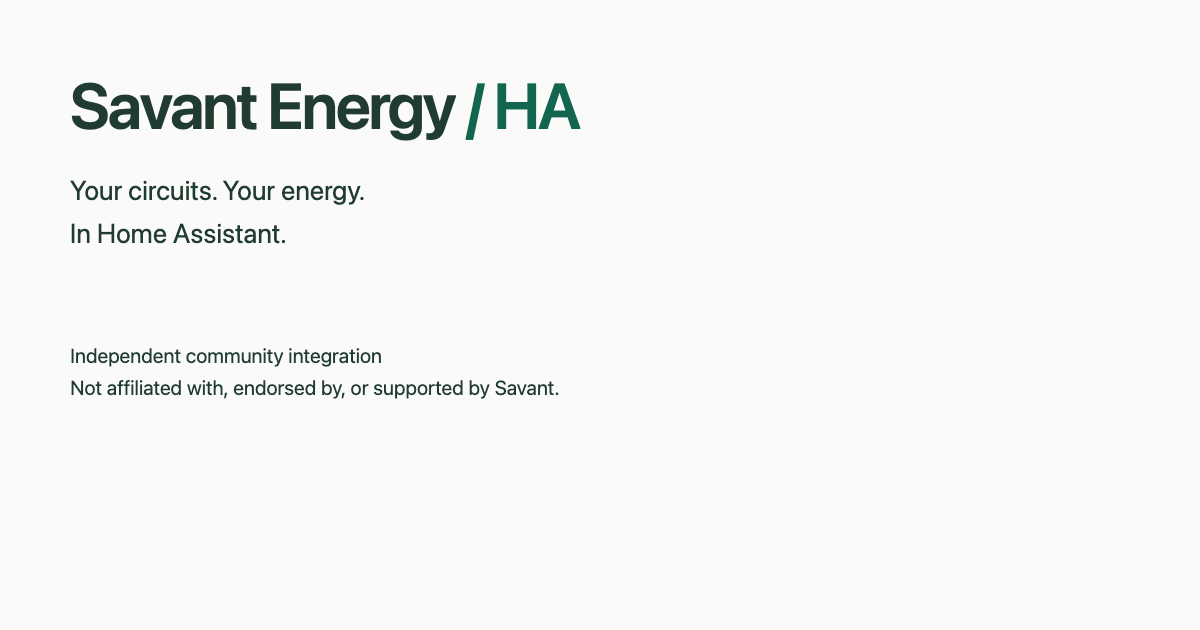
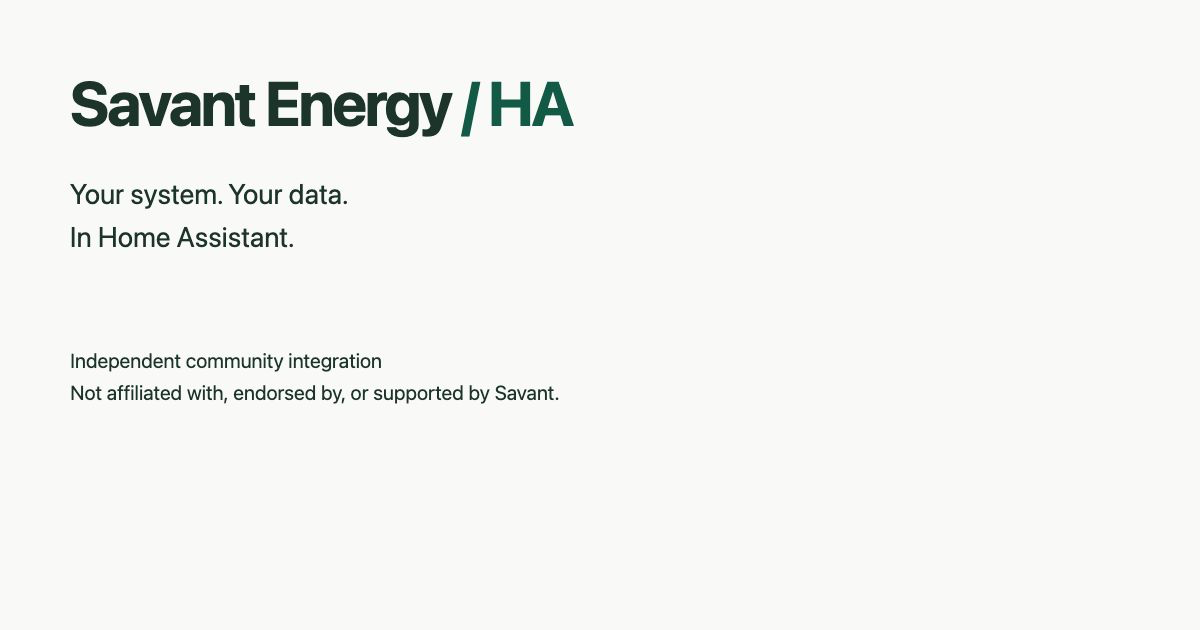
docs: use Your system, Your data headline

diff --git a/website/src/pages/index.tsx b/website/src/pages/index.tsx
@@ -4,11 +4,11 @@ import Link from '@docusaurus/Link';
 import overview from '@site/../docs/assets/breaker-board-desktop.jpg';
 
 export default function Home(): React.JSX.Element {
-  return <Layout title="Your energy, in Home Assistant" description="Independent community integration for Savant energy systems. Installation, setup, energy monitoring, scenes, and Legacy guides.">
+  return <Layout title="Your system. Your data." description="Independent community integration for Savant energy systems. Installation, setup, energy monitoring, scenes, and Legacy guides.">
     <main>
       <section className="showcase container">
         <div className="showcase-copy">
-          <h1>Your circuits. Your energy.<br /><span>In Home Assistant.</span></h1>
+          <h1>Your system. Your data.<br /><span>In Home Assistant.</span></h1>
           <p>Bring your Savant energy system into the home you already manage. See supported circuit readings, monitor energy, and run relay scenes from Home Assistant.</p>
           <div className="showcase-actions">
             <Link className="button button--primary button--lg" to="/docs/get-started/installation">Install the integration</Link>

diff --git a/website/branding/social-card.html b/website/branding/social-card.html
@@ -1,0 +1,15 @@
+<!doctype html>
+<!-- Render at 1200 × 630 and export as static/img/social-card.png. -->
+<html lang="en"><meta charset="utf-8"><title>Savant Energy social card</title>
+<style>
+* { box-sizing: border-box; }
+body { margin: 0; width: 1200px; height: 630px; background: #fafbf9; color: #203b31; font-family: -apple-system, BlinkMacSystemFont, 'Segoe UI', sans-serif; padding: 64px 70px; }
+h1 { margin: 0 0 30px; font-size: 62px; letter-spacing: -2.2px; font-weight: 700; line-height: 1.25; }
+h1 span { color: #12654f; }
+p { margin: 0; font-size: 28px; line-height: 1.55; }
+footer { margin-top: 87px; font-size: 20px; line-height: 1.6; }
+</style>
+<h1>Savant Energy <span>/ HA</span></h1>
+<p>Your system. Your data.<br>In Home Assistant.</p>
+<footer>Independent community integration<br>Not affiliated with, endorsed by, or supported by Savant.</footer>
+</html>

diff --git a/website/docusaurus.config.ts b/website/docusaurus.config.ts
@@ -3,7 +3,7 @@ import type * as Preset from '@docusaurus/preset-classic';
 
 const config: Config = {
   title: 'Savant Energy for Home Assistant',
-  tagline: 'Your circuits. Your energy. In Home Assistant.',
+  tagline: 'Your system. Your data. In Home Assistant.',
   favicon: 'img/favicon.svg',
   url: 'https://bballdavis.github.io',
   baseUrl: '/HASS-Savant-Energy/',
